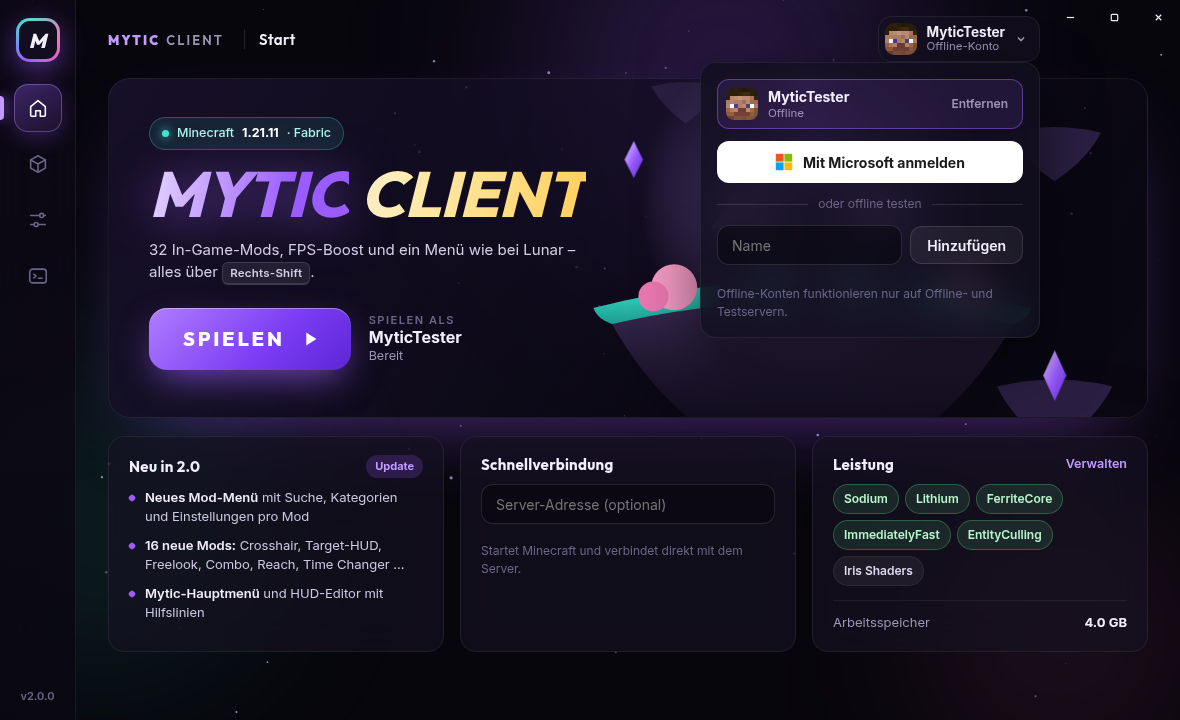
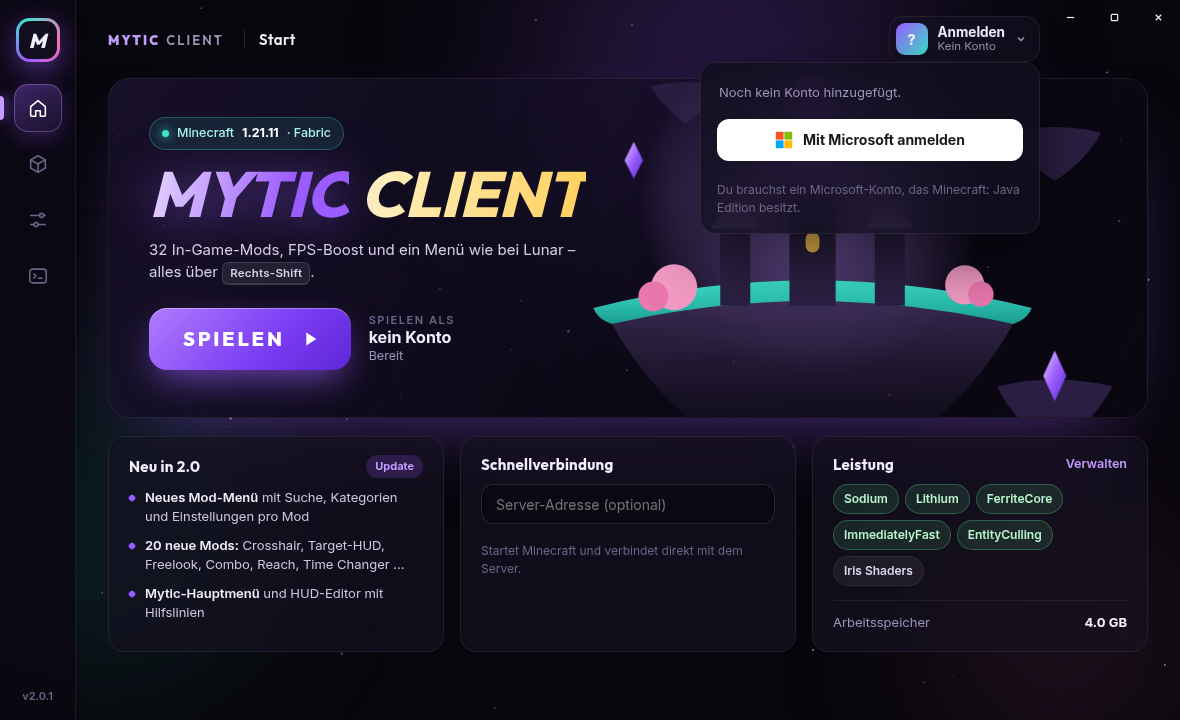
v2.0.1: bereit zur Einreichung bei Mojang
- Offline-Konten nur noch im Entwicklermodus, veröffentlichte EXE nur mit Microsoft-Login
- Datenschutzerklärung (docs/PRIVACY.md)
- README und Login-Anleitung aktualisiert, neue Screenshots

diff --git a/launcher/src/main.js b/launcher/src/main.js
@@ -10,6 +10,8 @@ const { Installer, buildCommand, launch, MANAGED_MODS, MC_VERSION, defaultMemory
 const auth = require("./core/auth");
 
 const DIRS = makeDirs();
+/** Offline-Konten nur für Entwickler-Tests: im Quellcode-Start (npm start) oder mit MYTIC_DEV=1, nie in der veröffentlichten EXE. */
+const OFFLINE_ALLOWED = process.env.MYTIC_DEV === "1" || (!app.isPackaged && process.env.MYTIC_RELEASE !== "1");
 const SETTINGS_FILE = path.join(DIRS.base, "settings.json");
 const ACCOUNTS_FILE = path.join(DIRS.base, "accounts.json");
 const GAME_CONFIG = path.join(DIRS.game, "config", "myticclient.json");
@@ -122,7 +124,9 @@ async function saveAccount(account, refreshToken) {
 
 function publicAccounts() {
   const store = accounts();
-  return { selected: store.selected, list: store.list.map(({ type, name, uuid }) => ({ type, name, uuid })) };
+  const list = store.list.filter((a) => OFFLINE_ALLOWED || a.type === "microsoft");
+  const selected = list.some((a) => a.uuid === store.selected) ? store.selected : (list[0] ? list[0].uuid : null);
+  return { selected, list: list.map(({ type, name, uuid }) => ({ type, name, uuid })) };
 }
 
 /** Holt das gewählte Konto mit gültigem Token (erneuert Microsoft-Tokens bei Bedarf). */
@@ -130,7 +134,10 @@ async function activeAccount() {
   const store = accounts();
   const entry = store.list.find((a) => a.uuid === store.selected);
   if (!entry) throw new Error("Bitte zuerst ein Konto hinzufügen.");
-  if (entry.type !== "microsoft") return entry;
+  if (entry.type !== "microsoft") {
+    if (!OFFLINE_ALLOWED) throw new Error("Bitte melde dich mit deinem Microsoft-Konto an.");
+    return entry;
+  }
   if (entry.expiresAt && entry.expiresAt > Date.now() + 5 * 60 * 1000) return { ...entry, accessToken: unprotect(entry.accessToken) };
   const clientId = settings().clientId;
   if (!clientId) throw new Error("Für Microsoft-Konten fehlt die Client-ID (Einstellungen).");
@@ -225,6 +232,7 @@ ipcMain.handle("state", () => ({
   managedMods: MANAGED_MODS.map(({ slug, name, description, required, default: on, requires }) => ({ slug, name, description, required: Boolean(required), default: Boolean(on), requires: requires || [] })),
   totalMemoryMb: Math.floor(os.totalmem() / 1024 / 1024),
   running: Boolean(game),
+  offlineAllowed: OFFLINE_ALLOWED,
   gameDir: DIRS.game,
 }));
 
@@ -252,6 +260,7 @@ ipcMain.handle("account:microsoft", async () => {
 });
 
 ipcMain.handle("account:offline", async (e, name) => {
+  if (!OFFLINE_ALLOWED) throw new Error("Offline-Konten sind nur in der Entwicklerversion verfügbar.");
   await saveAccount(auth.offlineAccount(String(name || "").trim()), "");
   return publicAccounts();
 });

diff --git a/launcher/src/renderer/index.html b/launcher/src/renderer/index.html
@@ -98,7 +98,7 @@
           <header><h3>Neu in 2.0</h3><span class="badge">Update</span></header>
           <ul class="news">
             <li><b>Neues Mod-Menü</b> mit Suche, Kategorien und Einstellungen pro Mod</li>
-            <li><b>16 neue Mods:</b> Crosshair, Target-HUD, Freelook, Combo, Reach, Time Changer …</li>
+            <li><b>20 neue Mods:</b> Crosshair, Target-HUD, Freelook, Combo, Reach, Time Changer …</li>
             <li><b>Mytic-Hauptmenü</b> und HUD-Editor mit Hilfslinien</li>
           </ul>
         </article>
@@ -188,12 +188,14 @@
         <svg viewBox="0 0 23 23"><path fill="#f35325" d="M1 1h10v10H1z"/><path fill="#81bc06" d="M12 1h10v10H12z"/><path fill="#05a6f0" d="M1 12h10v10H1z"/><path fill="#ffba08" d="M12 12h10v10H12z"/></svg>
         Mit Microsoft anmelden
       </button>
-      <div class="divider"><span>oder offline testen</span></div>
-      <form id="offline-form" class="inline">
-        <input id="offline-name" placeholder="Name" maxlength="16" spellcheck="false">
-        <button class="ghost" type="submit">Hinzufügen</button>
-      </form>
-      <p class="hint">Offline-Konten funktionieren nur auf Offline- und Testservern.</p>
+      <div id="offline-area" hidden>
+        <div class="divider"><span>Entwicklermodus: offline testen</span></div>
+        <form id="offline-form" class="inline">
+          <input id="offline-name" placeholder="Name" maxlength="16" spellcheck="false">
+          <button class="ghost" type="submit">Hinzufügen</button>
+        </form>
+      </div>
+      <p class="hint">Du brauchst ein Microsoft-Konto, das Minecraft: Java Edition besitzt.</p>
       <p class="error" id="account-error" hidden></p>
     </div>
   </div>

diff --git a/launcher/src/renderer/style.css b/launcher/src/renderer/style.css
@@ -286,6 +286,8 @@ select option { background: #15101f; }
 .microsoft:disabled { opacity: .5; cursor: default; transform: none; }
 .divider { display: flex; align-items: center; gap: 10px; color: var(--faint); font-size: 12px; }
 .divider::before, .divider::after { content: ""; flex: 1; height: 1px; background: var(--glass-line-strong); }
+#offline-area { display: grid; gap: 12px; }
+#offline-area[hidden] { display: none; }
 #offline-form input { flex: 1; min-width: 0; }
 .error { margin: 0; color: var(--danger); font-size: 13px; }
 

diff --git a/launcher/src/renderer/app.js b/launcher/src/renderer/app.js
@@ -446,6 +446,7 @@ api.onGame(({ running: isRunning, code }) => {
 
 (async () => {
   state = await api.state();
+  $("offline-area").hidden = !state.offlineAllowed;
   renderAccounts();
   renderFilters();
   renderMods();

diff --git a/docs/PRIVACY.md b/docs/PRIVACY.md
@@ -1,0 +1,31 @@
+# Datenschutzerklärung – Mytic Client
+
+*Stand: 8. Oktober 2026*
+
+Der Mytic Client ist ein kostenloser Launcher für Minecraft: Java Edition. Er läuft vollständig auf deinem Computer. Es gibt keine eigenen Server des Mytic Client, und es werden keine Daten an den Entwickler gesendet.
+
+## Welche Daten verarbeitet werden
+
+| Daten | Wofür | Wo gespeichert |
+|---|---|---|
+| Microsoft-Anmeldung (Zugriffs- und Aktualisierungstoken) | Anmeldung bei Xbox Live und Minecraft | nur lokal auf deinem PC, verschlüsselt mit der Betriebssystem-Verschlüsselung (Windows DPAPI bzw. Schlüsselbund) |
+| Minecraft-Name und UUID | Anzeige im Launcher, Spielstart | nur lokal (`%APPDATA%\.myticclient\accounts.json`) |
+| Einstellungen (RAM, Mods, HUD-Positionen) | deine Einstellungen merken | nur lokal |
+
+## Mit welchen Diensten der Launcher spricht
+
+- **Microsoft / Xbox Live / Mojang** (`login.microsoftonline.com`, `*.xboxlive.com`, `api.minecraftservices.com`): Anmeldung und Prüfung, ob du Minecraft besitzt. Es gelten die Datenschutzbestimmungen von Microsoft.
+- **Mojang** (`piston-meta.mojang.com`, `piston-data.mojang.com`, `libraries.minecraft.net`, `resources.download.minecraft.net`, `launchermeta.mojang.com`): Download von Minecraft, Bibliotheken, Spieldateien und Java.
+- **Fabric** (`meta.fabricmc.net`, `maven.fabricmc.net`): Download des Fabric Loaders.
+- **Modrinth** (`api.modrinth.com`, `cdn.modrinth.com`): Download der Performance-Mods.
+- **mc-heads.net**: Anzeige deines Spieler-Kopfes im Launcher. Dabei wird nur deine öffentliche Minecraft-UUID übertragen.
+
+Deine Anmeldedaten werden nur an Microsoft und Mojang gesendet und an niemanden sonst. Es gibt keine Werbung, kein Tracking und keine Analyse-Tools.
+
+## Daten löschen
+
+Über den Launcher (Konto → Entfernen) entfernst du ein Konto. Alle Daten verschwinden, wenn du den Ordner `%APPDATA%\.myticclient` löschst. Den Zugriff der App auf dein Microsoft-Konto kannst du jederzeit unter <https://account.live.com/consent/Manage> widerrufen.
+
+## Kontakt
+
+Fragen kannst du über die Issues im GitHub-Repository stellen: <https://github.com/xNikYox/Mytic-Client/issues>

diff --git a/README.md b/README.md
@@ -19,7 +19,7 @@ Minecraft 1.21.11 · Fabric · Windows
 ### Launcher
 
 - **Ein Klick zum Spielen:** Java, Minecraft 1.21.11, Fabric und alle Mods werden automatisch heruntergeladen und aktuell gehalten. Spieler müssen nichts extra installieren.
-- **Microsoft-Login:** Anmeldung mit dem echten Minecraft-Konto. Zum Testen gibt es zusätzlich Offline-Konten.
+- **Microsoft-Login:** Anmeldung mit dem echten Minecraft-Konto. Der Launcher prüft, ob das Konto Minecraft: Java Edition besitzt.
 - **Mehrere Konten:** schnell zwischen Konten wechseln. Die Anmeldedaten werden mit der Verschlüsselung des Betriebssystems gespeichert.
 - **Schnellverbindung:** direkt beim Start auf einen Server verbinden, zuletzt genutzte Server mit einem Klick.
 - **Mods verwalten:** alle In-Game- und Performance-Mods per Schalter an- und ausschalten, mit Suche und Kategorien.
@@ -99,6 +99,12 @@ Ein Setup-Installer mit Deinstallation (NSIS) lässt sich unter Windows mit `npx
 ## Microsoft-Login
 
 Der Launcher nutzt eine eigene Azure-App, deren Client-ID in `launcher/resources/config.json` steht. Mojang muss diese ID für den Minecraft-Login freischalten. Wie das geht, steht in [docs/MICROSOFT-LOGIN.md](docs/MICROSOFT-LOGIN.md).
+
+Zum Entwickeln gibt es Offline-Konten. Sie sind nur aktiv, wenn der Launcher aus dem Quellcode gestartet wird (`npm start`) oder `MYTIC_DEV=1` gesetzt ist, und in der veröffentlichten EXE abgeschaltet.
+
+## Datenschutz
+
+Es gibt keine eigenen Server, kein Tracking und keine Werbung. Anmeldedaten bleiben verschlüsselt auf deinem PC und gehen nur an Microsoft und Mojang. Details stehen in [docs/PRIVACY.md](docs/PRIVACY.md).
 
 ## Fair Play
 

diff --git a/docs/MICROSOFT-LOGIN.md b/docs/MICROSOFT-LOGIN.md
@@ -43,7 +43,12 @@ Dafür gibt es zwei Wege:
 
   Danach baust du den Installer neu (`npm run dist:win`). Jeder Spieler hat die ID dann automatisch.
 
-Bis die Freigabe da ist, kannst du mit einem **Offline-Konto** testen. Das funktioniert nur auf Offline- und eigenen Testservern.
+Bis die Freigabe da ist, kannst du den Launcher aus dem Quellcode starten (`cd launcher && npm start`). Dort gibt es zum Testen Offline-Konten, die nur auf Offline- und eigenen Testservern funktionieren. In der veröffentlichten EXE sind Offline-Konten abgeschaltet.
+
+Für die Angaben in Azure (Branding) und im Mojang-Formular kannst du diese Adressen nehmen:
+
+- **Startseite:** <https://github.com/xNikYox/Mytic-Client>
+- **Datenschutzerklärung:** <https://github.com/xNikYox/Mytic-Client/blob/main/docs/PRIVACY.md>
 
 ## Häufige Fehler
 
